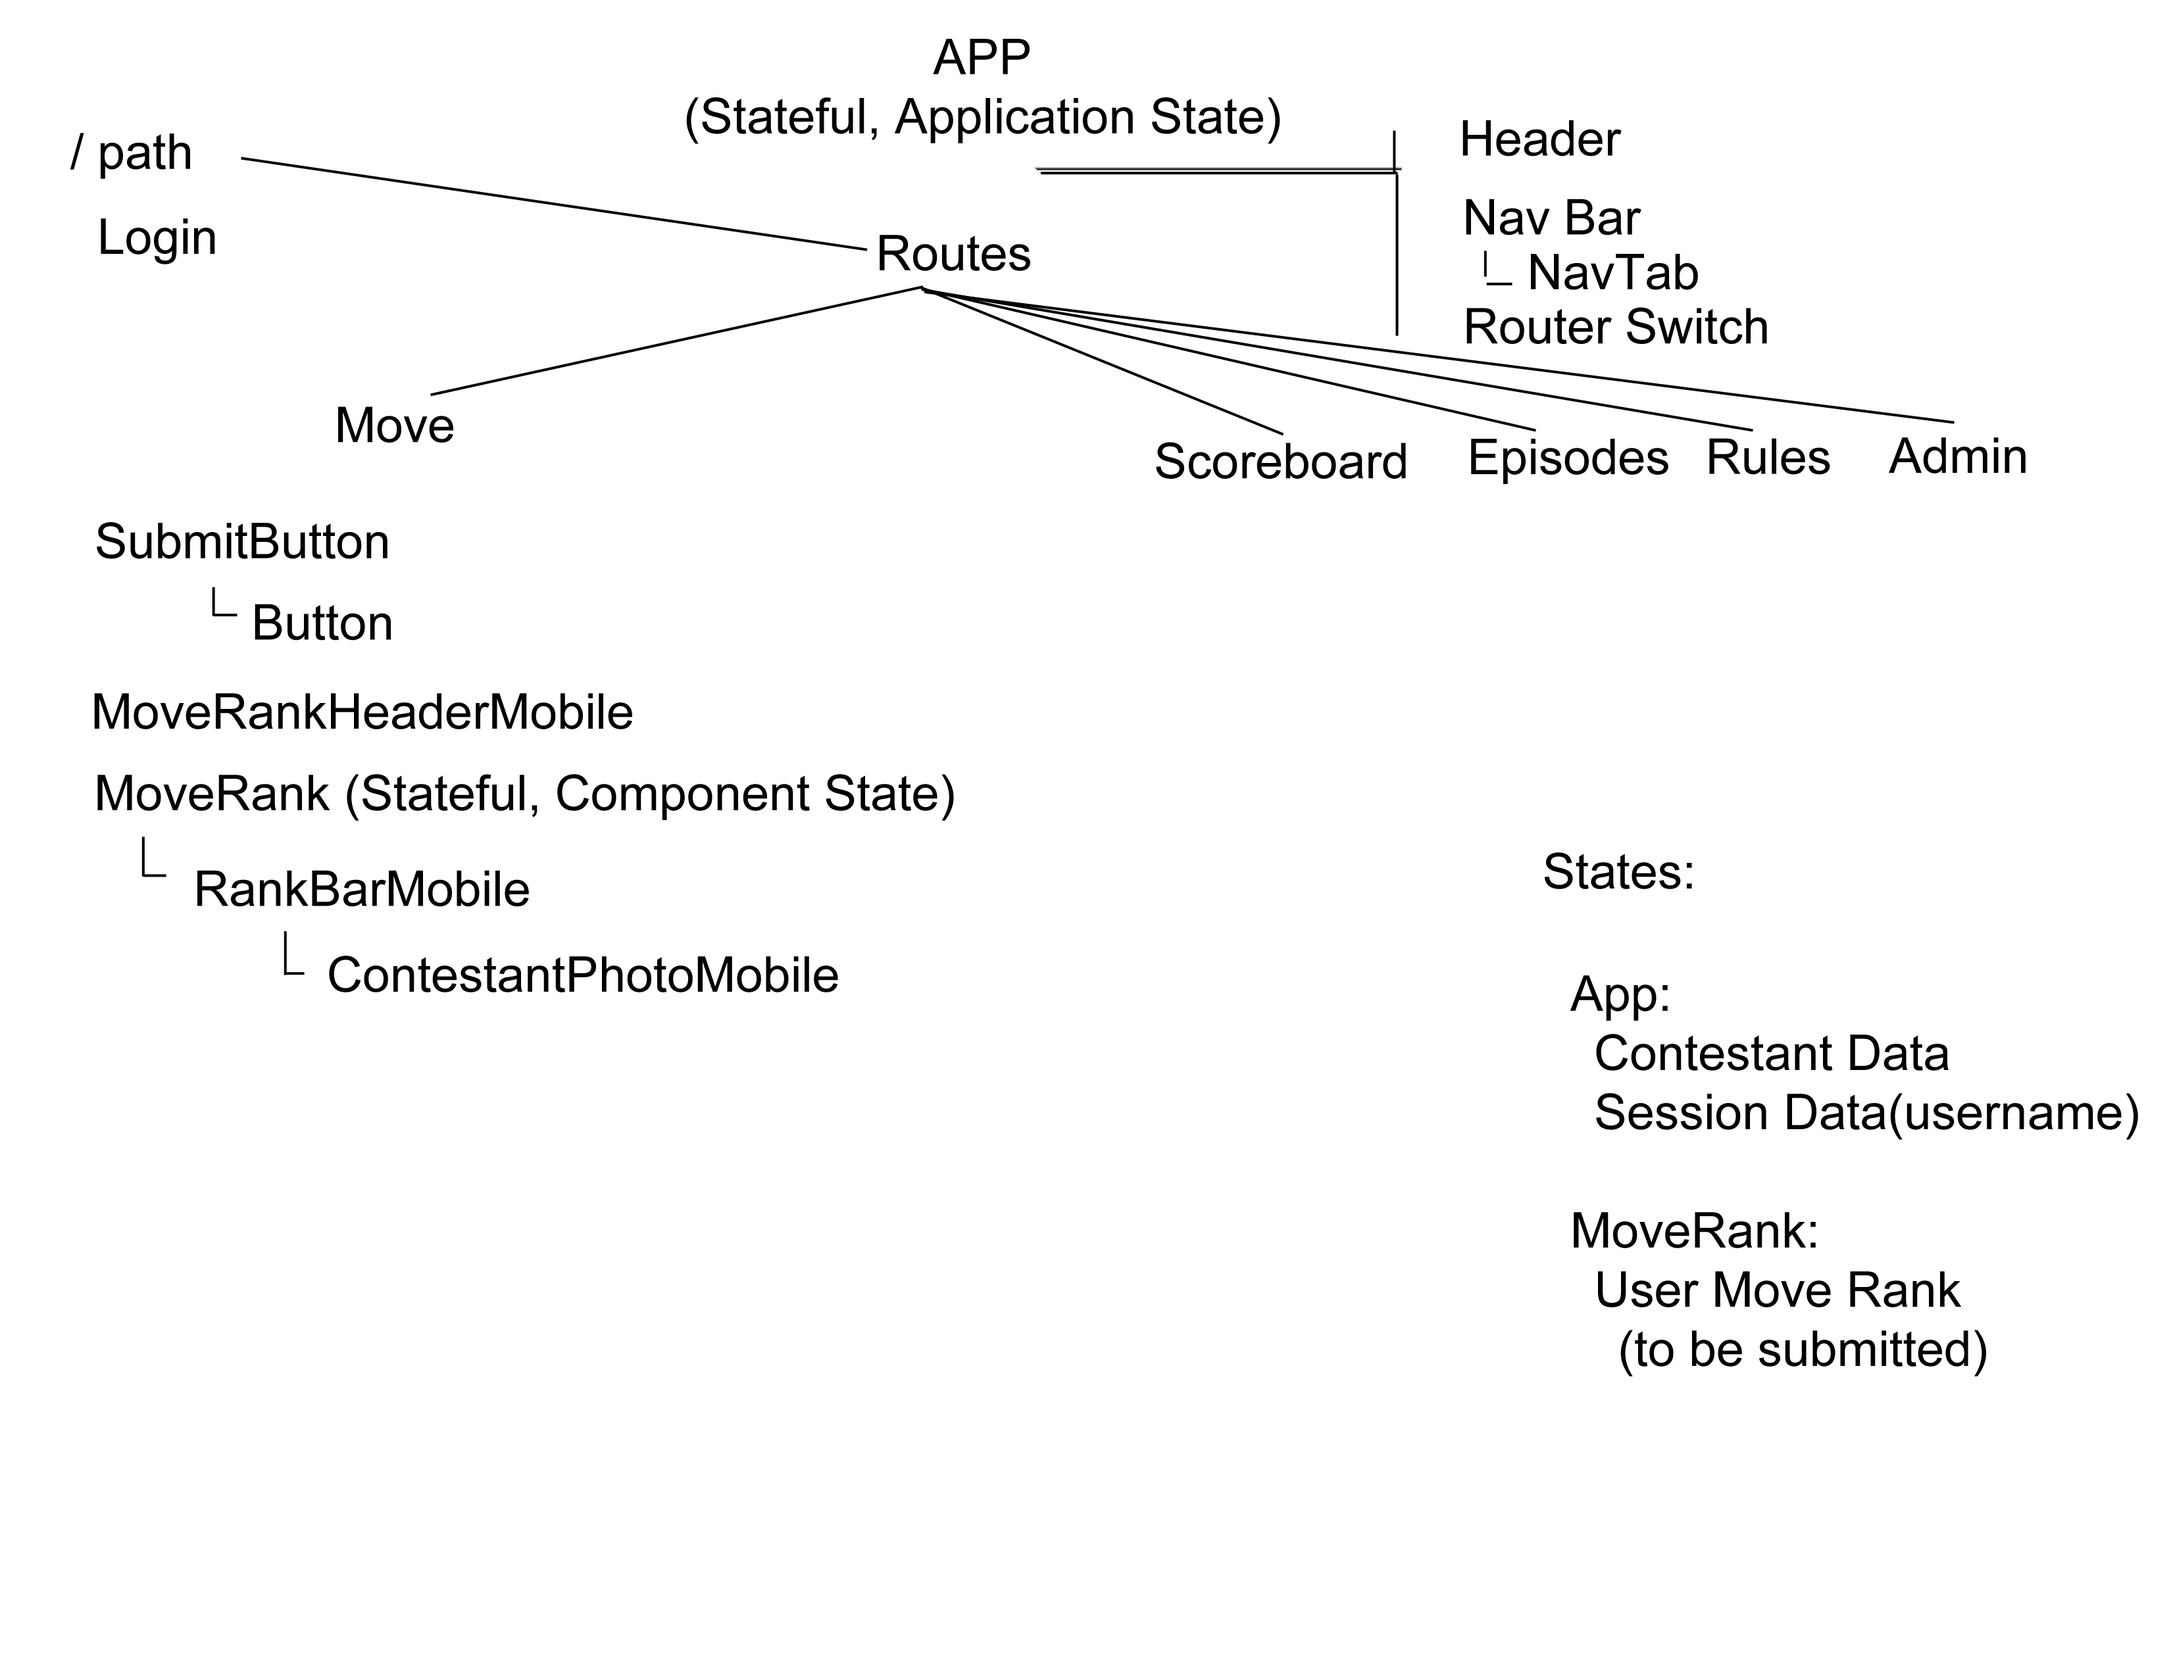
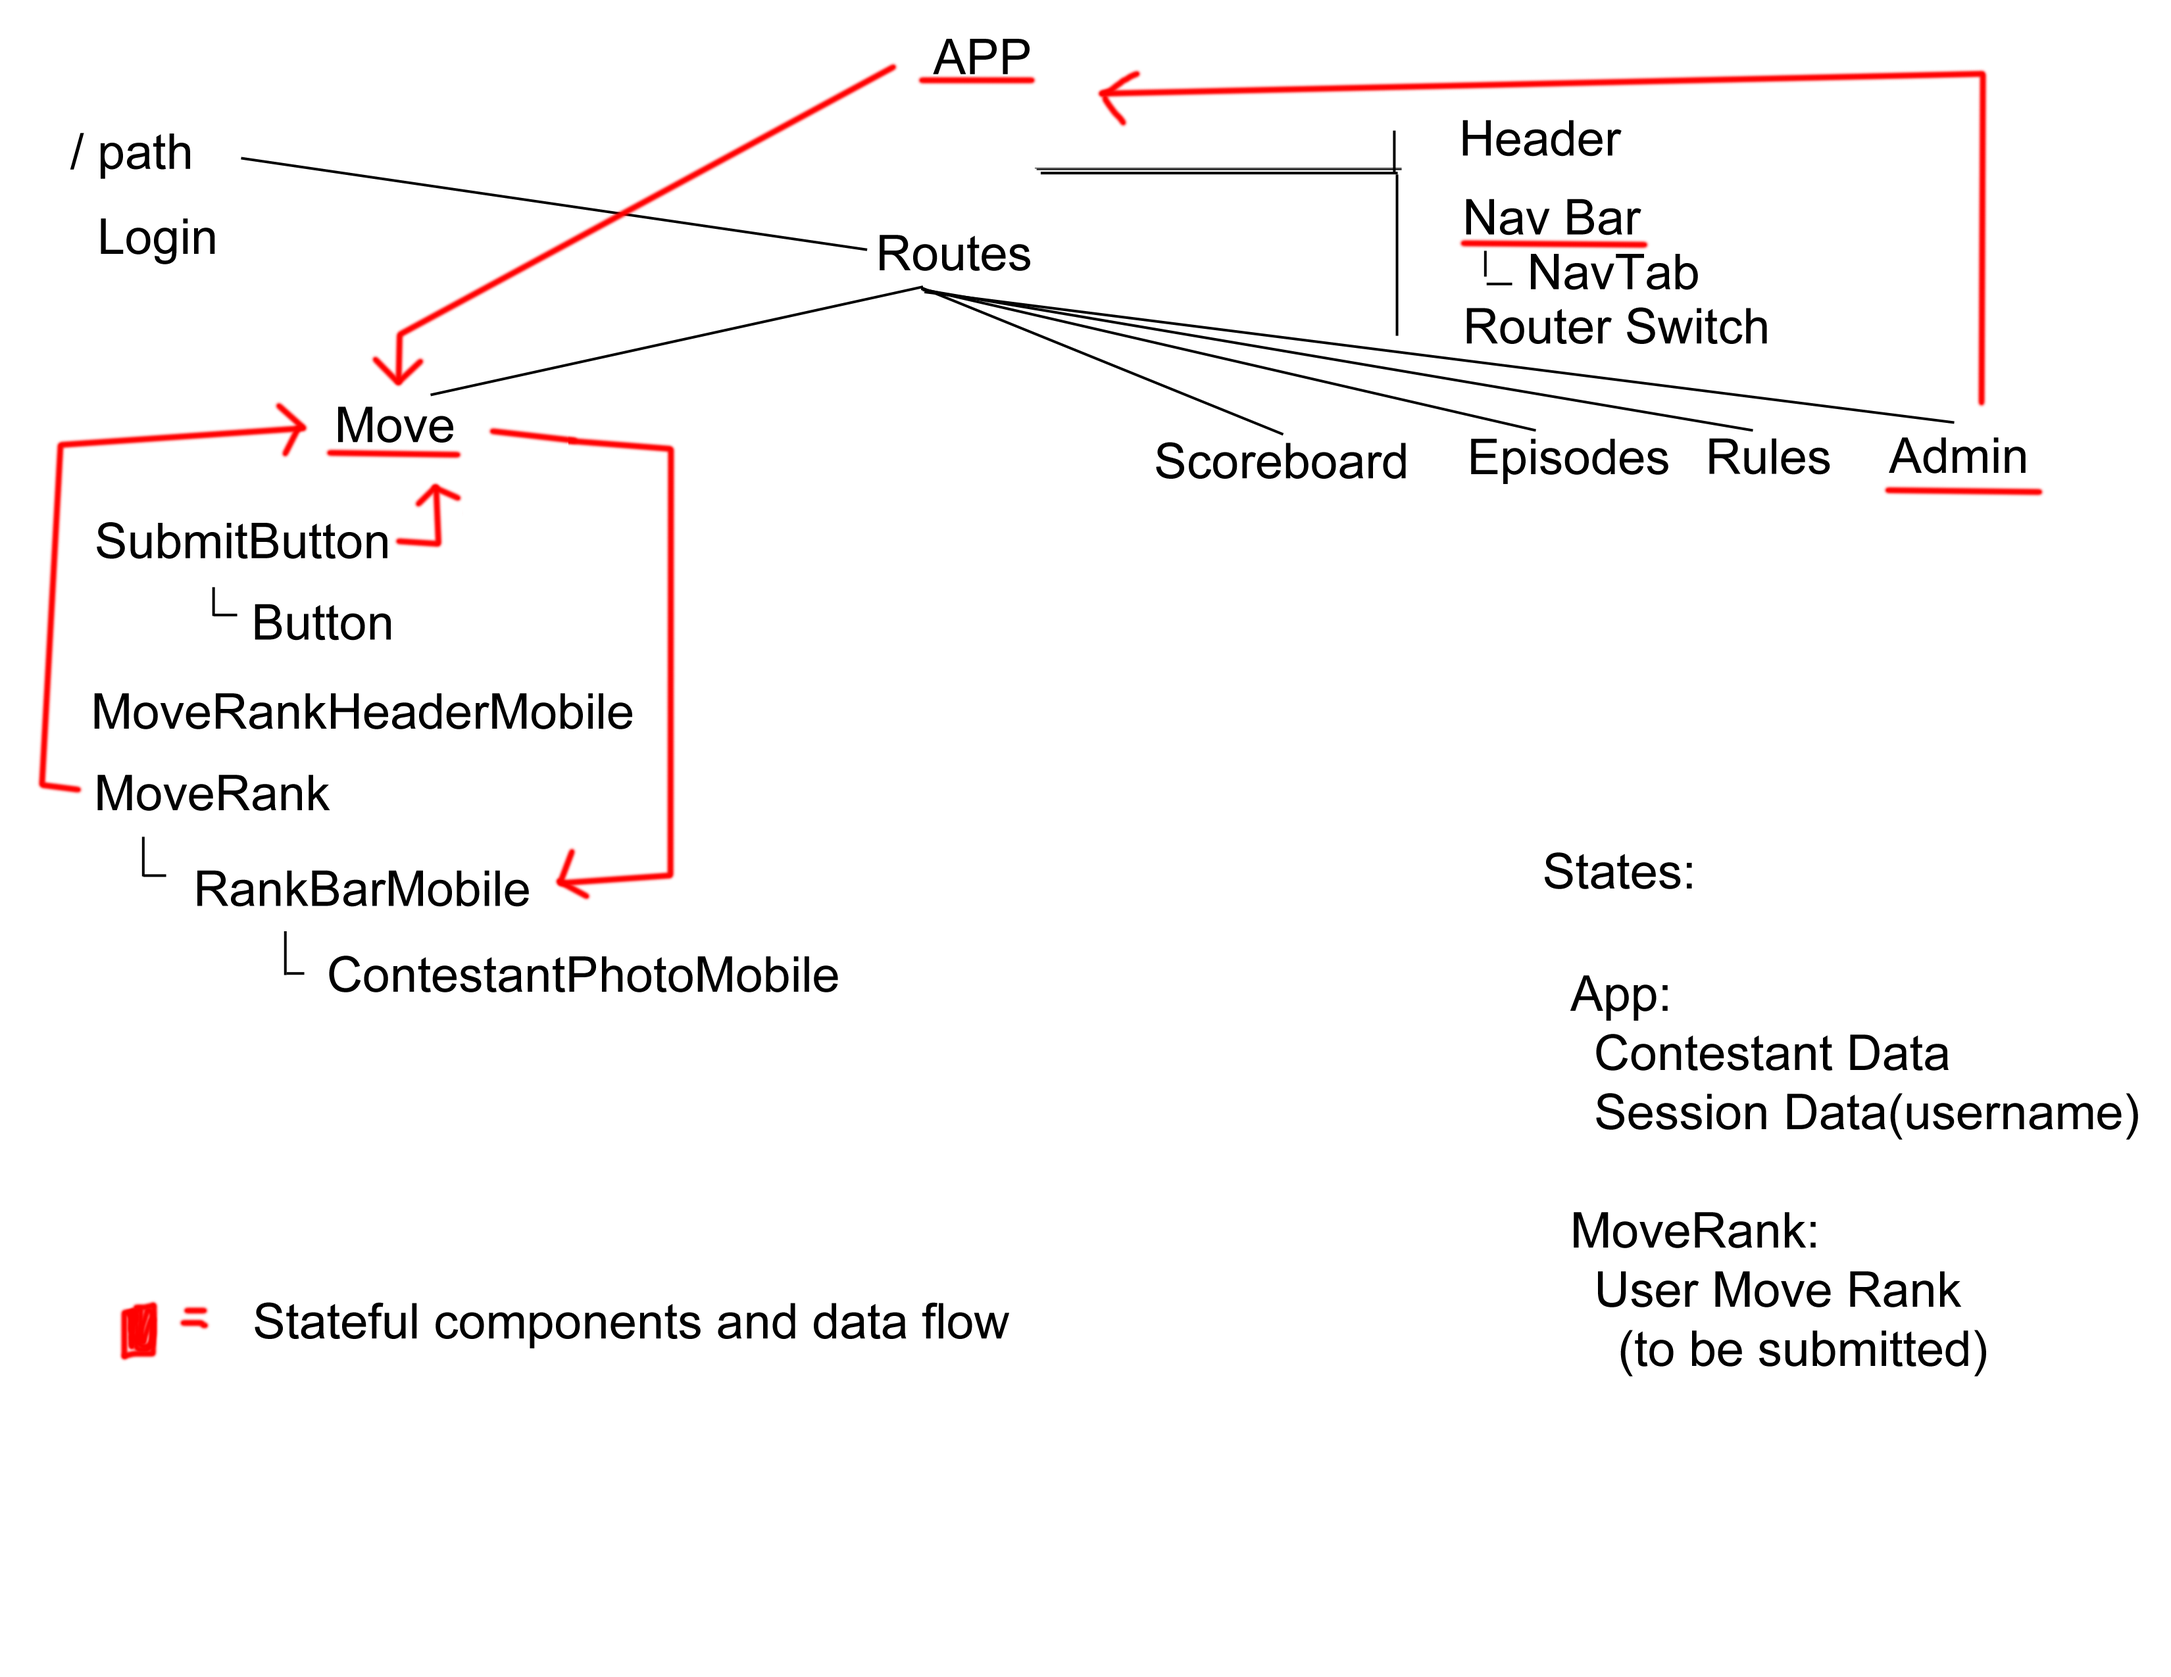
update diagram and make deep copy for admin setstate

diff --git a/src/components/NavTab.jsx b/src/components/NavTab.jsx
@@ -13,7 +13,9 @@ class NavTab extends React.Component {
   }
 
   handleClick(){
-    this.setState({selectedTab: 'selected'});
+    const newState = JSON.parse(JSON.stringify(this.state));
+    newState.selectedTab = 'selected';
+    this.setState({selectedTab: newState.selectedTab});
   }
 
   render(){

diff --git a/src/components/App.jsx b/src/components/App.jsx
@@ -67,7 +67,6 @@ class App extends React.Component {
     const episodeKeys = Object.keys(episode);
     const episodeNumber = episodeKeys[0];
     newEpisodesState[episodeNumber] = episode[episodeNumber];
-    console.log(newEpisodesState);
     this.setState({episodes: newEpisodesState});
   }
 

diff --git a/README.md b/README.md
@@ -1,4 +1,4 @@
-# epicodus-queue
+# Fantasy Survivor React
 
 * _npm Install_
 * _Make sure atom react package is version 0.17.0_
